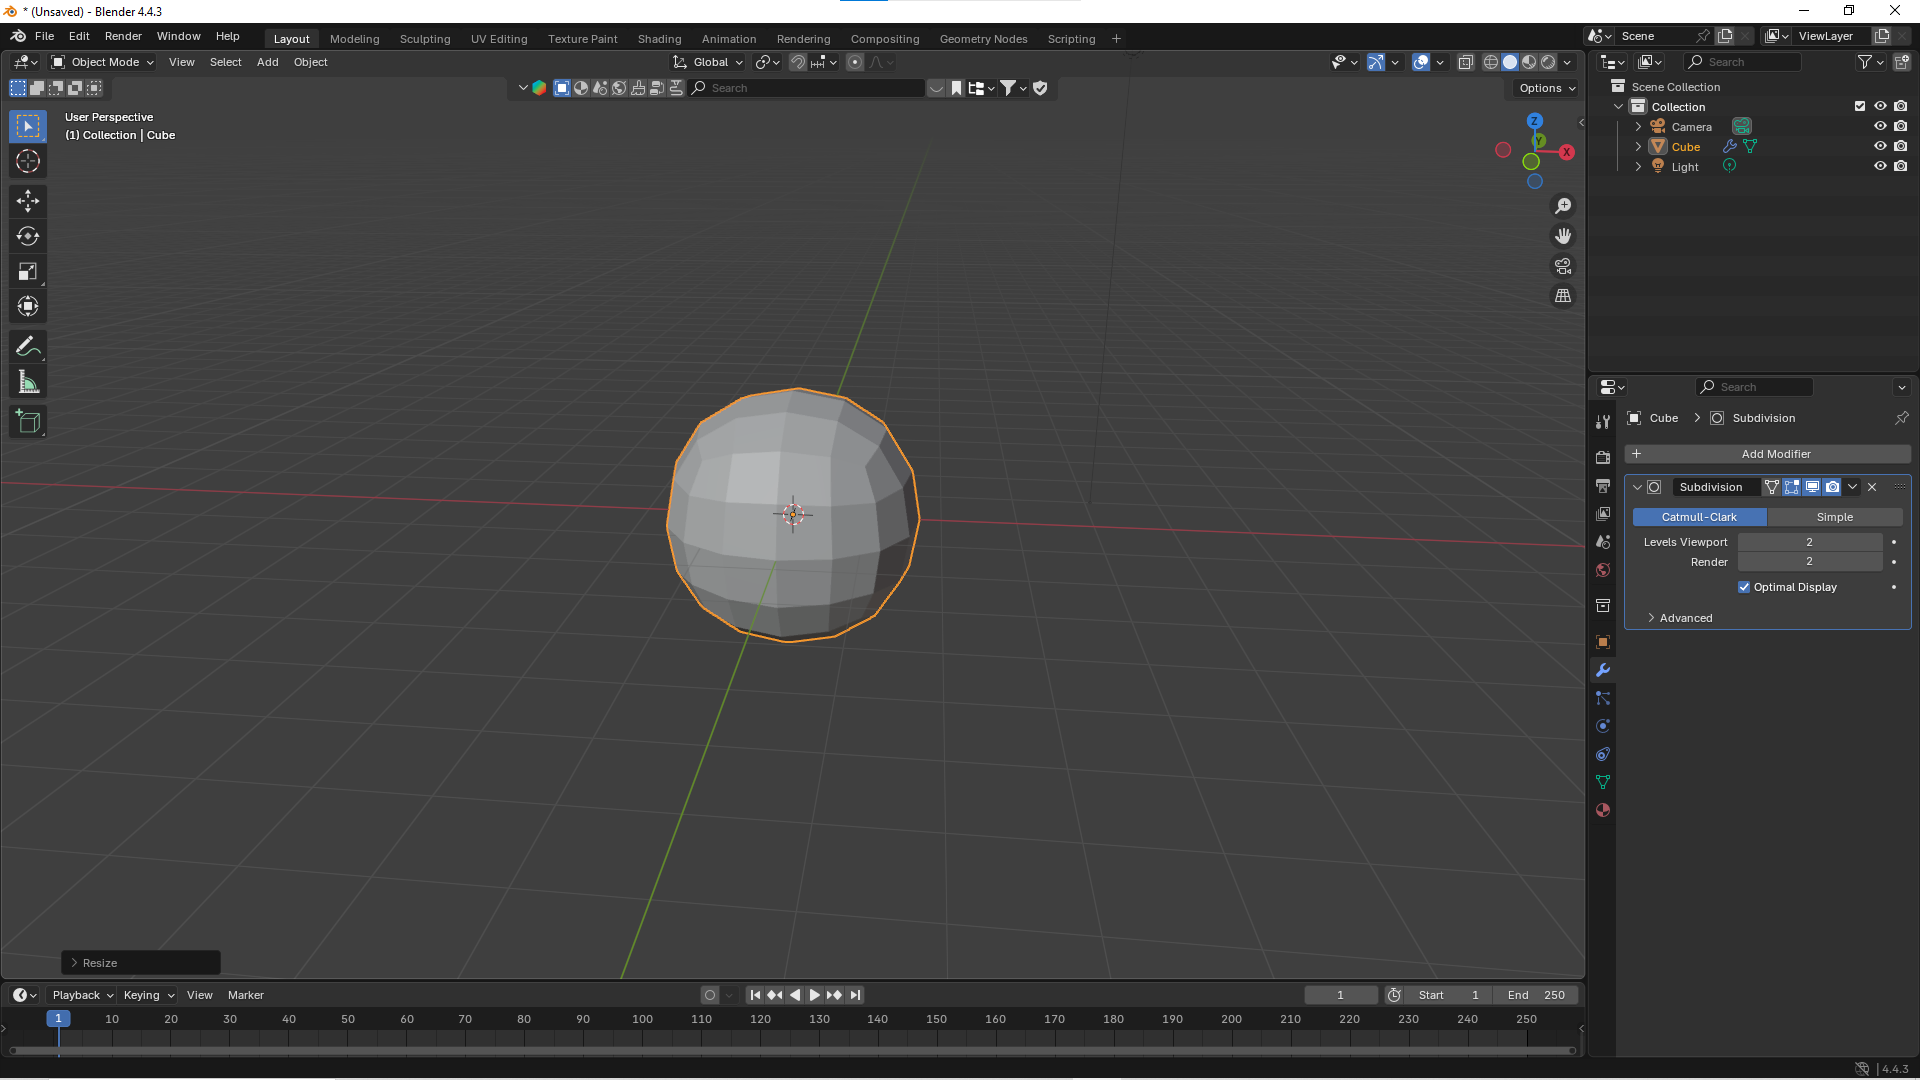
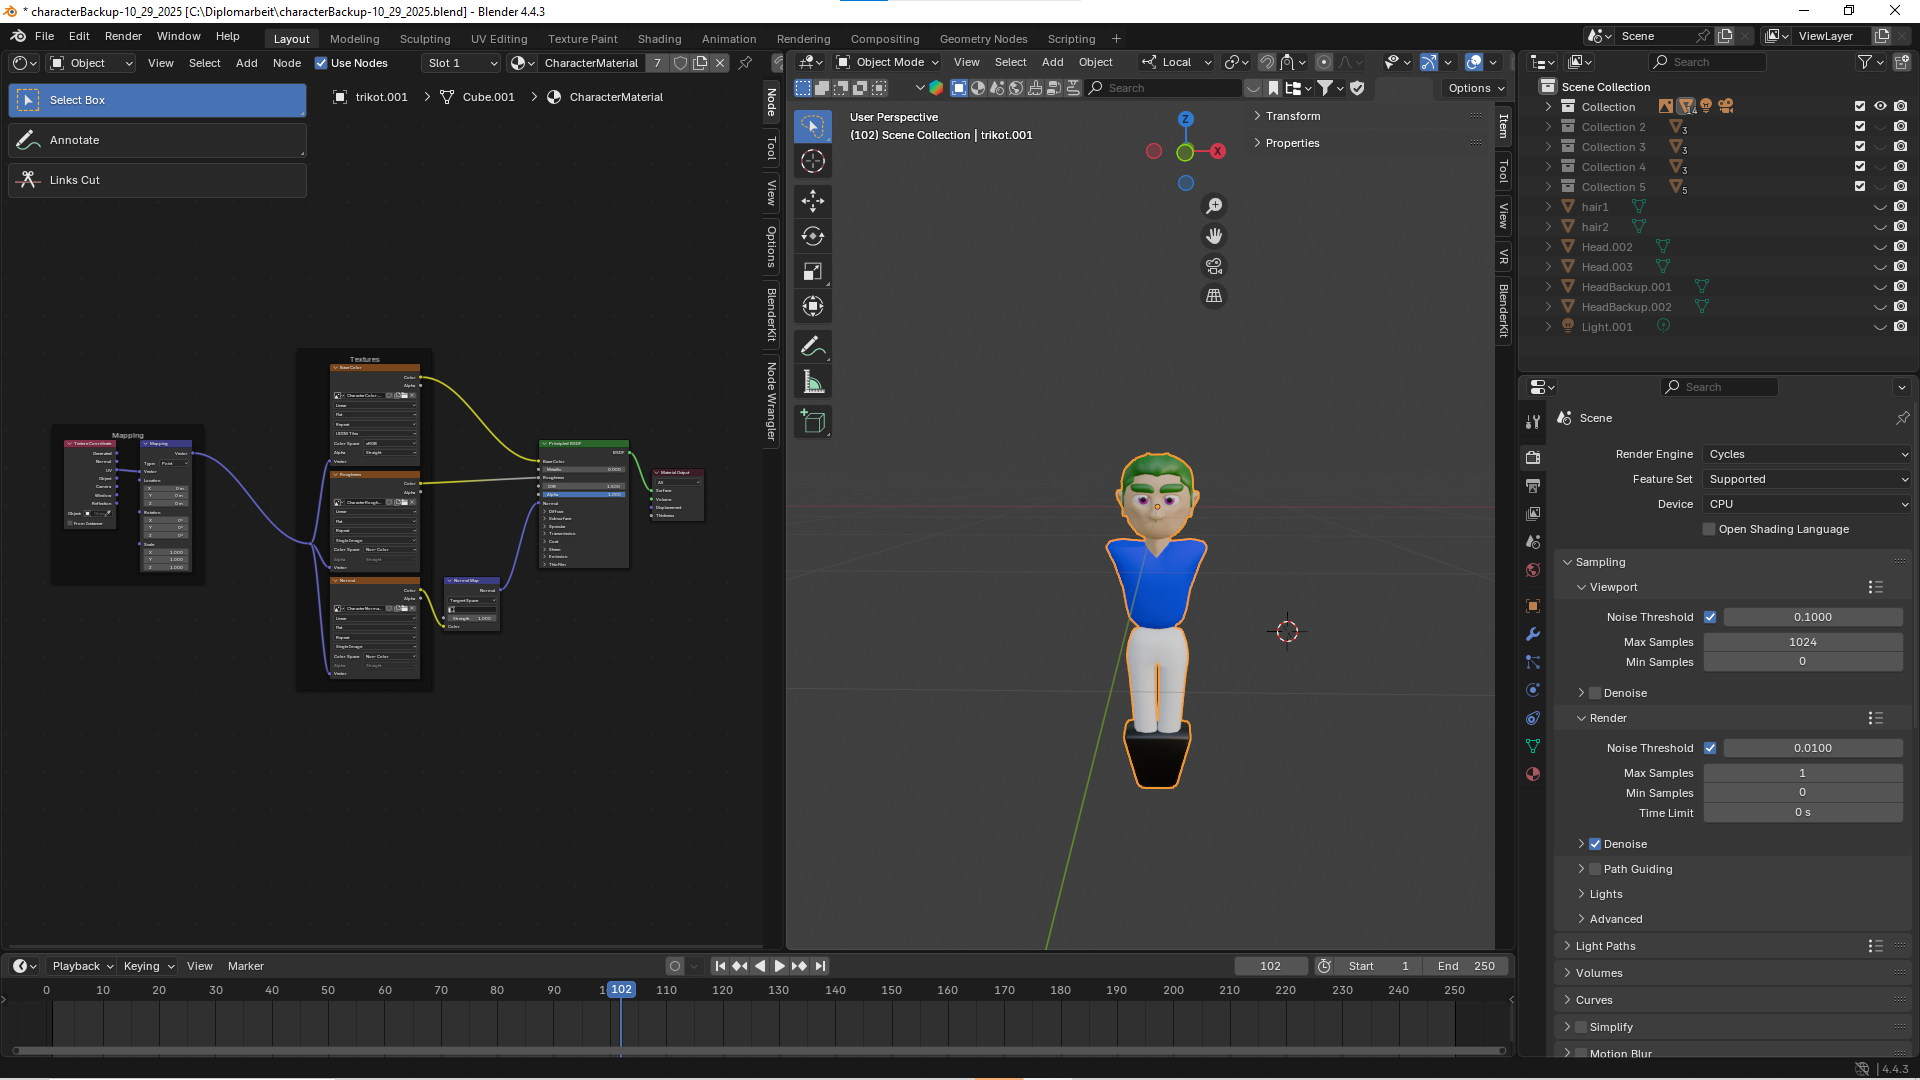
Amygdala | Fix location of images added by Lanzmaier; Add changes to diploma thesis as pointed out by Prof. Hutter (up until the end of the part of student Schaar); Changes in phrasing of several sentences throughout the theoretical part; Add Excel spreadsheet for everything about data analysis and 

diff --git a/Diplomarbeit/30-ausarbeitungen.md b/Diplomarbeit/30-ausarbeitungen.md
@@ -1,4 +1,4 @@
-# Aufgabenstellung 
+\textauthor{Nikita Schaar}
 
 ## Auftraggeber
 Die Diplomarbeit "DigiKicker - Digitalisierung eines Tischfußballtisches" findet in Zusammenarbeit mit der HTL Leoben statt. Sie wird betreut von Ing. DI(FH) Günther Hutter, Msc. in der Rolle des Hauptbetreuers, sowie DI Dr. mont Thomas Messner als Zweitbetreuer.
@@ -9,7 +9,22 @@ Die grundlegende Aufgabenstellung ist die Verwirklichung einer "Digitalversion" 
 
 * Was ist die derzeitige Situation?
 
-    Nach einiger Recherche in der Themenfindungsphase fanden wir heraus, dass zwar technologisch unterstützte Tischfußballtische mit eingebauter Gegner-KI und weiteren autonomen Eigenschaften existieren, ein Projekt nach unserer Vision jedoch noch von keinem entwickelt wird.
+    Nach einiger Recherche in der Themenfindungsphase fanden wir heraus, dass zwar technologisch unterstützte Tischfußballtische mit eingebauter Gegner-KI und weiteren autonomen Eigenschaften existieren, ein Projekt nach unserer Vision jedoch noch von keinem entwickelt wird. Beispiele für bereits existierende Projekte, welche Tische mit eingebauten KI-Gegnern realisieren wären z. B.:
+    * A.I. Foosball - Brigham Young University [@ai-foosball-brigham-young-university]:
+
+        Hierbei werden 4 Stäbe des Tisches von Menschen gesteuert, während die anderen 4 mithilfe von Motoren angesteuert werden. Die Entscheidungen werden von einer KI getroffen, welche durch eine Kamera den Tisch von oben sieht und mittels Objekterkennung den Überblick über die Spielsituation bewahrt. Anhand von den erfassten Daten kann die künstliche Intelligenz schneller reagieren als ein menschlicher Spieler.
+
+        ![AI Foosball BYU - Kamera-Setup](img/Schaar/AI-Foosball-BYU-Camera.png)
+
+        ![AI Foosball BYU - Machine Vision](img/Schaar/AI-Foosball-BYU-MachineVision.png)
+
+    * Bend it like Bosch [@bend-it-like-bosch]:
+
+        Dieses Projekt ist auf funktioneller Ebene relativ ident zu dem vorherigen, da bei ihm auch mittels Kamera die Spielsituation erkannt und anhand von algorithmisch errechneten Ergebnissen die Motoren angesteuert werden. Wie in den Abbildungen ersichtlich, ist der Tisch höher technologisiert als bei der BYU, aber grundsätzlich sehr ähnlich.
+
+        ![Bend it like Bosch - Tischfußballtisch](img/Schaar/Bosch-Foosball-Table.png)
+
+        ![Bend it like Bosch - Machine Vision](img/Schaar/Bosch-Foosball-MachineVision.png)
 
 * Wie wird derzeit gearbeitet?
 

diff --git a/Diplomarbeit/10-einleitung.md b/Diplomarbeit/10-einleitung.md
@@ -1,2 +1,3 @@
 # Einleitung
-Nach Verfassen der Arbeit
+
+"DigiKicker - Digitalisierung eines Tischfußballtisches" wird als Diplomarbeit von Luan Lanzmaier, André Rath und Nikita Schaar bearbeitet und verfasst. Die Zuständigkeiten der Teammitglieder sind eingeteilt in die verschiedenen Teile des Projektes. Nikita Schaar ist für die Entwicklung eines physischen Controllers zur Steuerung der Simulation eines Tischfußballtisches zuständig. André Rath arbeitet an der Realisierung einer solchen Simulation mittels der Engine Godot sowie der Erstellung und dem Training eines KI-Modells, welches als künstlicher Gegner fungiert. Luan Lanzmaier entwickelt einen "Mehrspieler-Modus" für die Simulation, sodass das gemeinsame Spiel mit anderen Personen möglich wird. Außerdem gestaltet er die visuellen Elemente und Assets der Arbeit. Der Austausch im Team wird durch Text-Chats sowie Meetings durchgeführt. Für Genaueres zu den (Nicht-) Zielen und der aktuellen Situation rund um die Thematik wird hierbei auf Kapitel 2 "Zielsetzung" verwiesen.

diff --git a/Diplomarbeit/95-Projektdokumentation.md b/Diplomarbeit/95-Projektdokumentation.md
@@ -1,4 +1,5 @@
 \newpage
+\textauthor{Nikita Schaar}
 ## Dokumentation
 
 Im Abschnitt Projektdokumentation können Sie mit Hilfe eines Projektmanagementwerkzeuges Ihrer Wahl die Projektumsetzung dokumentieren. (Also ein fortlaufender Projektfortschrittsbericht)

diff --git a/Diplomarbeit/90-Projektplan.md b/Diplomarbeit/90-Projektplan.md
@@ -1,5 +1,5 @@
 # Projekthandbuch
-\textauthor{Schueler XY}
+\textauthor{Nikita Schaar}
 
 ## Entwicklungsplan
 

diff --git a/Diplomarbeit/99-Projektabschlussbericht.md b/Diplomarbeit/99-Projektabschlussbericht.md
@@ -1,4 +1,5 @@
 \newpage
+\textauthor{Nikita Schaar}
 ## Projektabschlussbericht
 
 ### Erfolgsmessung
